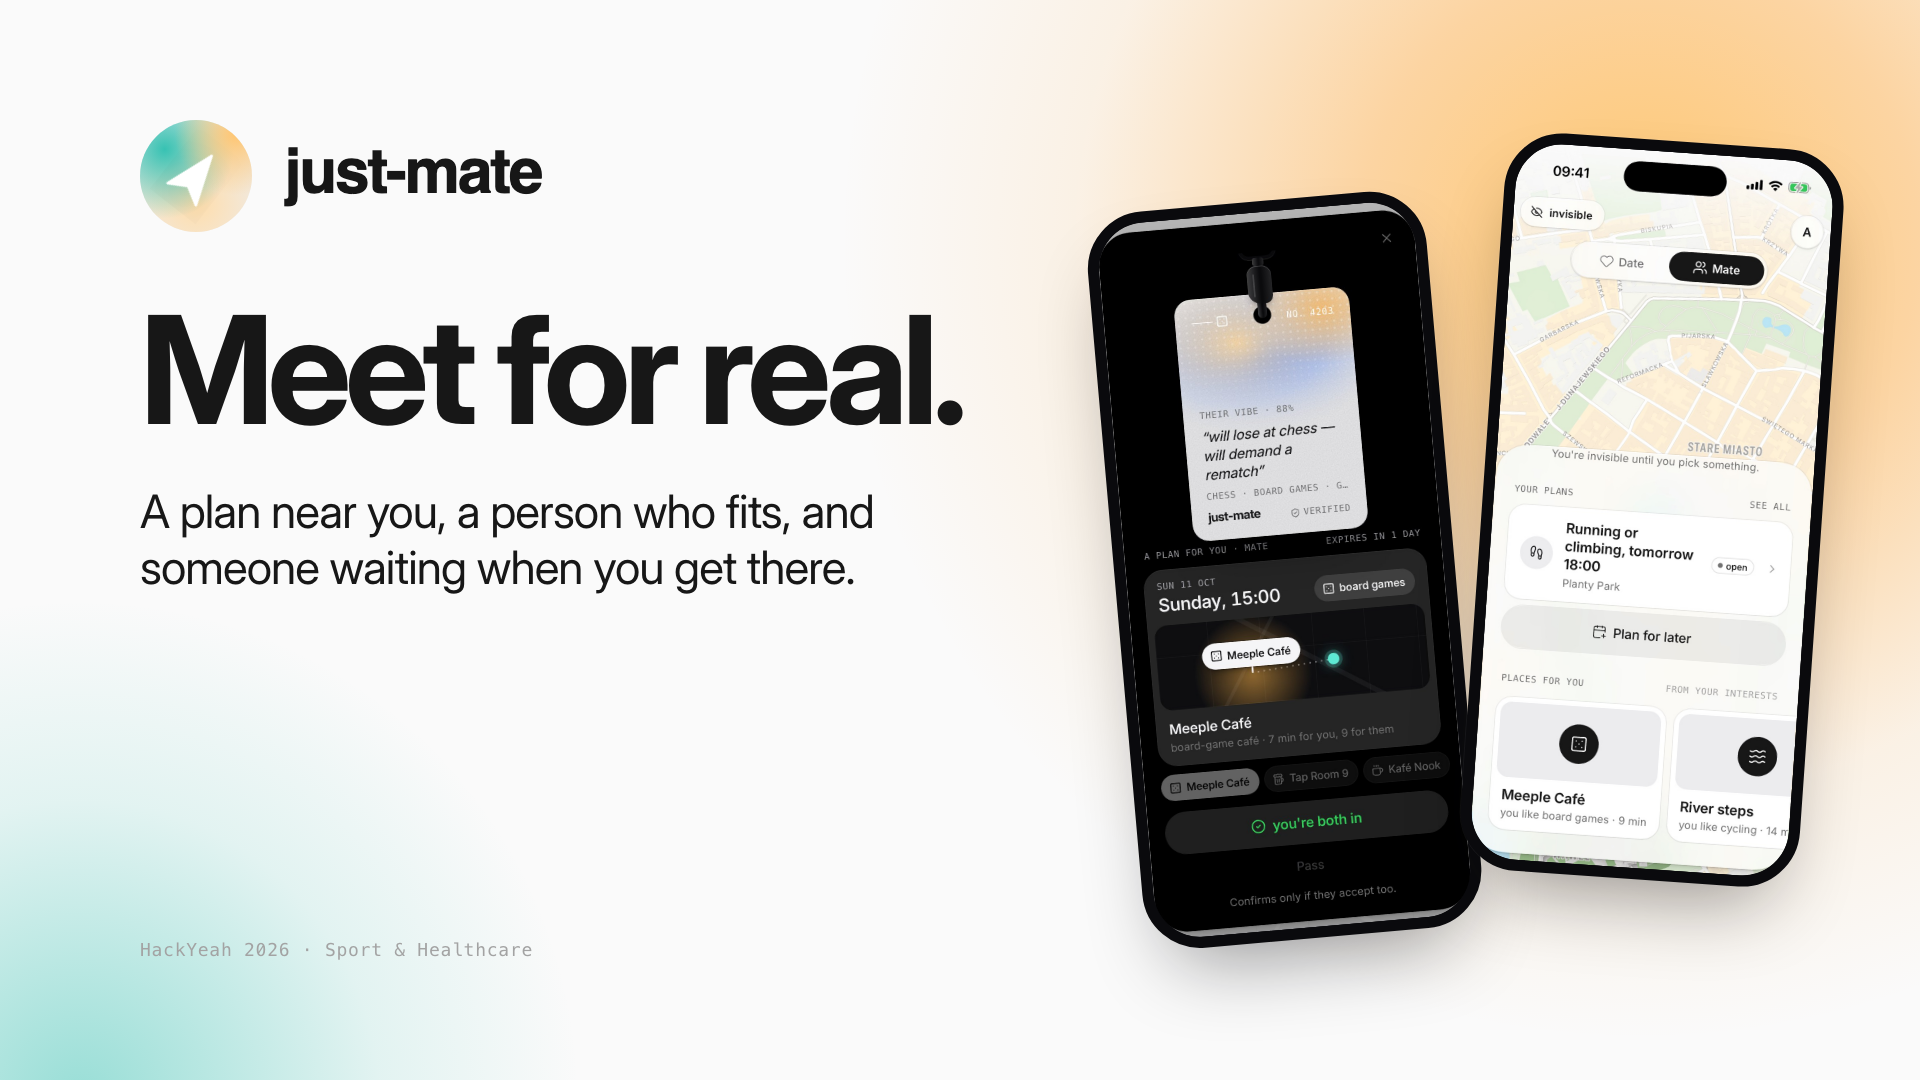
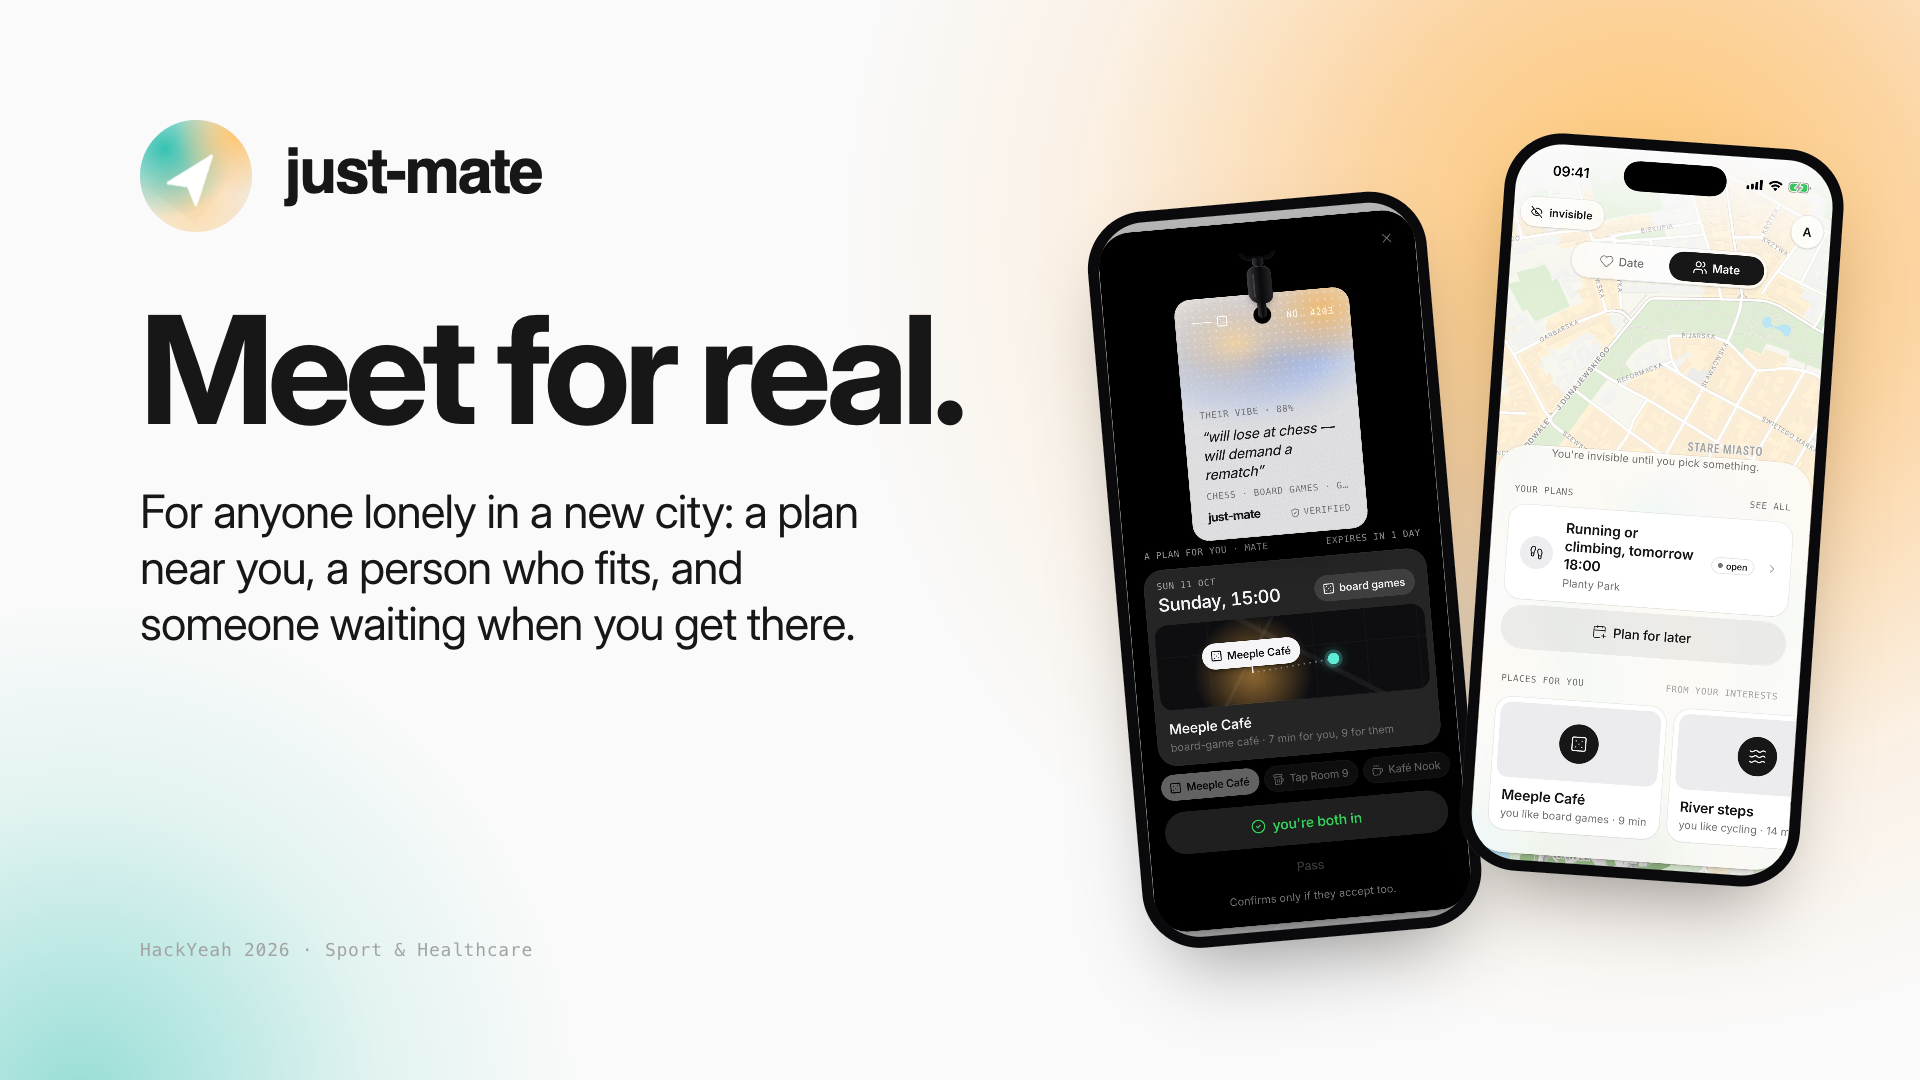
docs(submission): lead the cover, site and one-liner with loneliness

diff --git a/site/src/copy.ts b/site/src/copy.ts
@@ -36,7 +36,7 @@ const en = {
   meta: {
     title: "just-mate · Meet for real",
     description:
-      "No faces, no chat, no people pins. just-mate gets you out of the door and in front of someone compatible: right now, or at a small plan the app makes for you.",
+      "For anyone lonely in a new city. just-mate makes a small plan near you with someone who fits, and it is on only when you are both in. Already out? It walks you to someone compatible right now.",
   },
   nav: { how: "How it works", safety: "Safety", venues: "Venues", join: "Join the waitlist" },
   clip: {
@@ -49,7 +49,7 @@ const en = {
   hero: {
     eyebrow: "HackYeah 2026 · Kraków",
     title: "Meet for real.",
-    lead: "just-mate gets you out of the door and in front of someone compatible. No faces, no chat, no people pins. Right now, or at a small plan the app makes for you.",
+    lead: "For anyone lonely in a new city. just-mate makes a small plan near you with someone who fits, and it's on only when you're both in. Already out? It walks you to someone compatible right now.",
     join: "Join the waitlist",
     watch: "Watch with sound · 54 s",
   },
@@ -260,7 +260,7 @@ const pl: Copy = {
   meta: {
     title: "just-mate · Spotkaj kogoś naprawdę",
     description:
-      "Bez zdjęć, bez czatu, bez pinezek z ludźmi. just-mate wyciąga cię z domu i stawia przed kimś, kto do ciebie pasuje: teraz albo na małym planie, który aplikacja ułoży za ciebie.",
+      "Dla wszystkich, którym w nowym mieście doskwiera samotność. just-mate układa mały plan w pobliżu z kimś, kto do ciebie pasuje, i plan rusza dopiero, gdy oboje go przyjmiecie. Już jesteś na mieście? Zaprowadzi cię do kogoś pasującego od razu.",
   },
   nav: {
     how: "Jak to działa",
@@ -278,7 +278,7 @@ const pl: Copy = {
   hero: {
     eyebrow: "HackYeah 2026 · Kraków",
     title: "Spotkaj kogoś naprawdę.",
-    lead: "just-mate wyciąga cię z domu i stawia przed kimś, kto do ciebie pasuje. Bez zdjęć, bez czatu, bez pinezek z ludźmi. Teraz albo na małym planie, który aplikacja ułoży za ciebie.",
+    lead: "Dla wszystkich, którym w nowym mieście doskwiera samotność. just-mate układa mały plan w pobliżu z kimś, kto do ciebie pasuje, i plan rusza dopiero, gdy oboje go przyjmiecie. Już jesteś na mieście? Zaprowadzi cię do kogoś pasującego od razu.",
     join: "Zapisz się na listę",
     watch: "Obejrzyj z dźwiękiem · 54 s",
   },

diff --git a/docs/submission/cover.html b/docs/submission/cover.html
@@ -12,7 +12,6 @@
   .head img:last-child { height: 78px; }
   .display { font-size: 150px; margin-top: 64px; }
   .tag { margin-top: 40px; font-size: 46px; line-height: 1.22; letter-spacing: -0.02em; max-width: 780px; }
-  .rules { margin-top: 56px; display: flex; gap: 14px; }
   .phones { position: absolute; right: 100px; top: 50%; display: flex; gap: 28px; align-items: center; transform: translateY(-50%); }
   .phones .phone:nth-child(1) { transform: rotate(-5deg) translateY(30px); }
   .phones .phone:nth-child(2) { transform: rotate(4deg) translateY(-30px); }
@@ -27,7 +26,7 @@
     <img src="../../mobile/assets/brand/just-mate-wordmark.svg" alt="just-mate">
   </div>
   <div class="display">Meet for real.</div>
-  <p class="tag">A plan near you, a person who fits, and someone waiting when you get there.</p>
+  <p class="tag">For anyone lonely in a new city: a plan near you, a person who fits, and someone waiting when you get there.</p>
   <div class="foot"><span>HackYeah 2026 · Sport &amp; Healthcare</span></div>
   <div class="phones">
     <div class="phone" style="width:340px"><img src="screens/plan-bothin.jpg" alt=""></div>

diff --git a/docs/SUBMISSION.md b/docs/SUBMISSION.md
@@ -6,11 +6,11 @@ Hard limits (enforced): title ≤5 words EN · description ≤500 words EN incl.
 |---|---|
 | Task | OPEN: Sport & Healthcare — loneliness and social connection |
 | Pitch structure | Problem → User → Value → Solution → Reality → Next (after the HackYeah workshop "Pitch Like an Architect") |
-| One-liner | A plan near you, a person who fits, and someone waiting when you get there. |
+| One-liner | For anyone lonely in a new city: a plan near you, a person who fits, and someone waiting when you get there. |
 | Deck | [`submission/JustMate-Deck.pdf`](submission/JustMate-Deck.pdf) — 10 slides, source [`submission/deck.html`](submission/deck.html) |
 | Whitepaper | [`submission/JustMate-Whitepaper.pdf`](submission/JustMate-Whitepaper.pdf) |
 | Images | [`submission/cover.png`](submission/cover.png) first, then app screens in [`submission/screens/`](submission/screens/) |
-| Website | [`site/`](../site/) — Vercel, with the launch film, use-case clips and a waitlist |
+| Website | https://just-mate-site.vercel.app — source in [`site/`](../site/), with the launch film, use-case clips and a waitlist |
 | Video | [`video/motion`](../video/motion) — Remotion launch film; script in `DEMO.md` › Launch video |
 | Repo | https://github.com/uteg-labs/just-mate |
 
@@ -18,7 +18,7 @@ Hard limits (enforced): title ≤5 words EN · description ≤500 words EN incl.
 
 `JustMate: Meet For Real` (4 words)
 
-## Description (final, 491 words incl. team and sources)
+## Description (final, 493 words incl. team and sources)
 
 > Loneliness affects 1 in 6 people worldwide and is linked to more than 871,000 deaths a year; lonely people are twice as likely to get depressed [1]. In the EU, 13% feel lonely most or all of the time [2]. People with stronger social relationships have a 50% higher likelihood of survival [4], and 31% of adults don't get enough physical activity [5].
 >
@@ -34,7 +34,7 @@ Hard limits (enforced): title ≤5 words EN · description ≤500 words EN incl.
 >
 > Team: Arthur Kozubov, Jozef Zvalo, Andrej Zak, Nikita Orlov, Serhii Vielkin.
 >
-> Sources: [1] WHO, 30 Jun 2025 · [2] JRC EU Loneliness Survey 2022 · [3] Hall, JSPR 2018 · [4] Holt-Lunstad et al., PLoS Med 2010 · [5] WHO, 26 Jun 2024. Links: github.com/uteg-labs/just-mate/blob/main/docs/SUBMISSION.md
+> Sources: [1] WHO, 30 Jun 2025 · [2] JRC EU Loneliness Survey 2022 · [3] Hall, JSPR 2018 · [4] Holt-Lunstad et al., PLoS Med 2010 · [5] WHO, 26 Jun 2024. Links: github.com/uteg-labs/just-mate/blob/main/docs/SUBMISSION.md · just-mate-site.vercel.app
 
 ## Sources
 

diff --git a/README.md b/README.md
@@ -4,7 +4,7 @@
 
 Built at [HackYeah 2026](https://hackyeah.pl) (Oct 3–4, TAURON Arena Kraków) for the OPEN: Sport & Healthcare task.
 
-**Submission:** [deck (PDF)](docs/submission/JustMate-Deck.pdf) · [whitepaper (PDF)](docs/submission/JustMate-Whitepaper.pdf) · [cover image](docs/submission/cover.png) · [website](site/) · [submission pack and sources](docs/SUBMISSION.md)
+**Submission:** [deck (PDF)](docs/submission/JustMate-Deck.pdf) · [whitepaper (PDF)](docs/submission/JustMate-Whitepaper.pdf) · [cover image](docs/submission/cover.png) · [website](https://just-mate-site.vercel.app) · [submission pack and sources](docs/SUBMISSION.md)
 
 ## The problem
 
